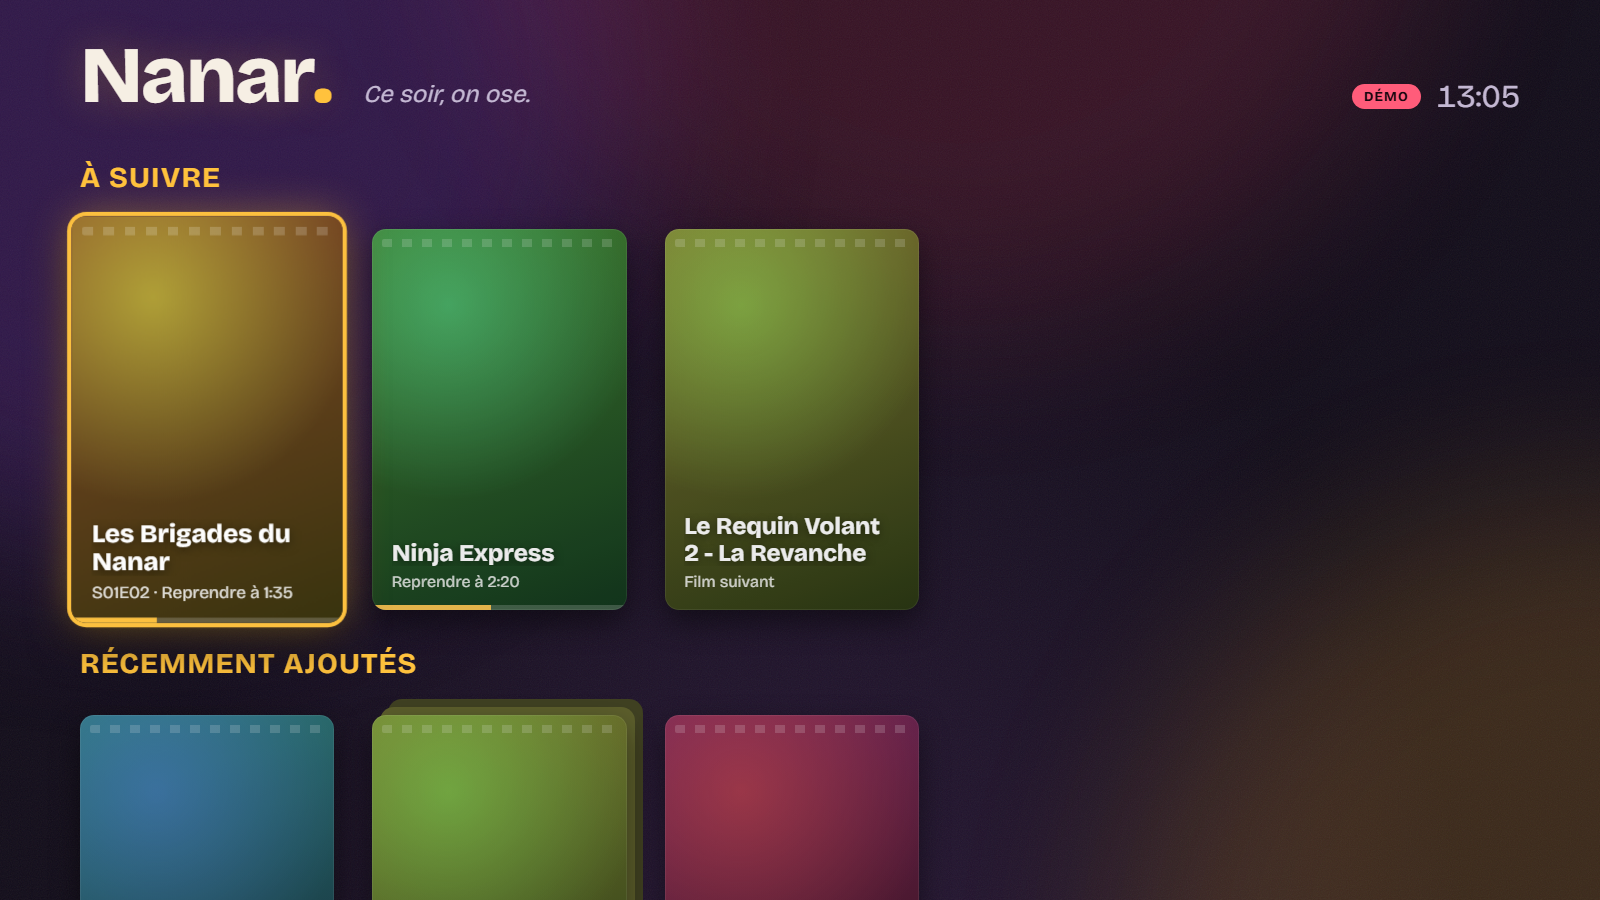
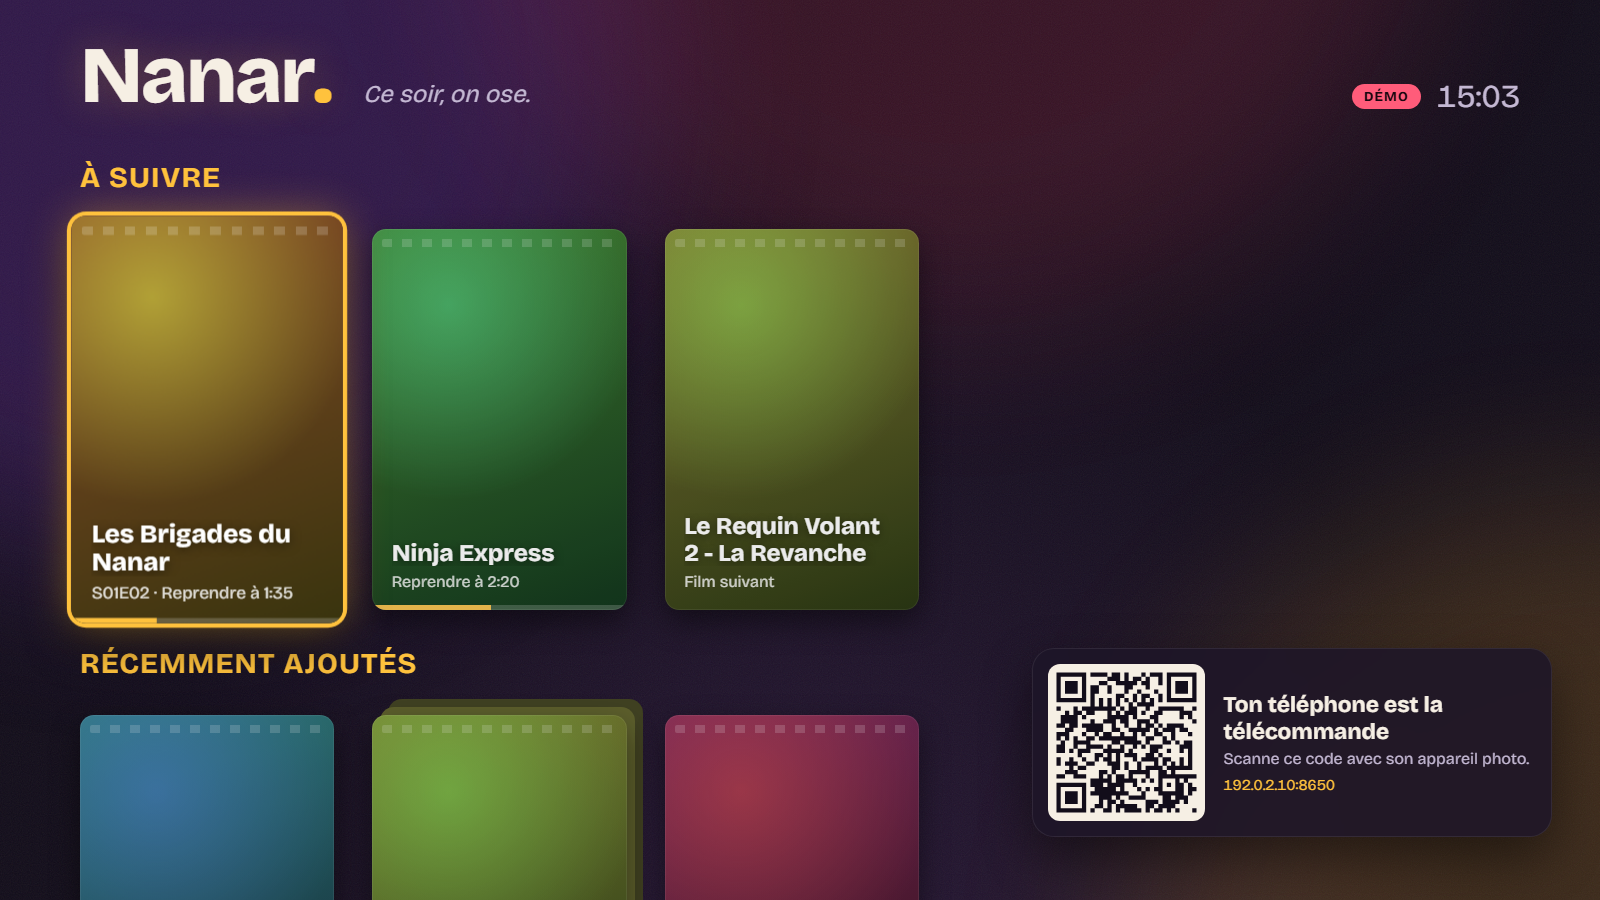
chore(release): 0.4.0
L'hôtel et les jaquettes: mode hôtel, and opt-in posters, summaries
and subtitles with the user's own TMDb and OpenSubtitles keys.

diff --git a/CHANGELOG.md b/CHANGELOG.md
@@ -4,6 +4,24 @@ Les changements de chaque version de Nanar, la plus récente en premier. Les num
 [versionnage sémantique](https://semver.org/lang/fr/) : tant qu’ils commencent par 0, l’application
 évolue encore beaucoup.
 
+## 0.4.0 — 2026-10-30
+
+L’hôtel et les jaquettes.
+
+### Nouveautés
+
+- **Mode hôtel**, en bas de la bibliothèque sur la télé : quand le Wi-Fi isole le téléphone du PC
+  (souvent à l’hôtel), Nanar ouvre le point d’accès sans fil de Windows, qui partage la connexion
+  du PC, et affiche un QR code pour le rejoindre, puis celui de la télécommande. Il le referme en
+  partant.
+- **Réglages**, sur la télé : de quoi activer, avec ta propre clé gratuite, deux services en
+  ligne. Sans clé, Nanar ne demande toujours rien à Internet.
+  - **Affiches et résumés** (TMDb) pour les films et les séries ; tes propres affiches restent
+    prioritaires. Nanar envoie le titre et l’année lus dans le nom du fichier.
+  - **Sous-titres français en ligne** (OpenSubtitles), depuis les sous-titres de la
+    télécommande ; ils reviennent tout seuls pour les épisodes suivants. Nanar envoie le titre,
+    l’année, l’épisode et l’empreinte de la vidéo.
+
 ## 0.3.0 — 2026-10-30
 
 La soirée : ce qui se passe pendant le film.

diff --git a/README.md b/README.md
@@ -7,10 +7,11 @@ restes dans ton canapé. Nanar range ta bibliothèque tout seul (les sagas ensem
 les épisodes par saison), affiche tout ça en grand sur la télé, et lit n’importe quelle vidéo :
 mkv, HEVC, AV1, sous-titres intégrés ou à côté du fichier, VF ou VO.
 
-> **Version 0.3.** Nanar range ta bibliothèque, l’affiche sur la télé et sur ton téléphone,
+> **Version 0.4.** Nanar range ta bibliothèque, l’affiche sur la télé et sur ton téléphone,
 > lit tes vidéos, reprend où tu t’étais arrêté et enchaîne les épisodes ; « À suivre », la
 > recherche et les aperçus de la barre de progression t’aident à choisir sans te lever ; le mode
-> nuit, la minuterie et les pistes retenues d’un épisode à l’autre accompagnent la soirée. Pour
+> nuit, la minuterie et les pistes retenues d’un épisode à l’autre accompagnent la soirée ; le
+> mode hôtel ouvre un Wi-Fi quand celui de l’hôtel isole le téléphone. Pour
 > Windows ; Linux et macOS depuis les sources. Ce que chaque version apporte : le
 > [journal des changements](CHANGELOG.md).
 
